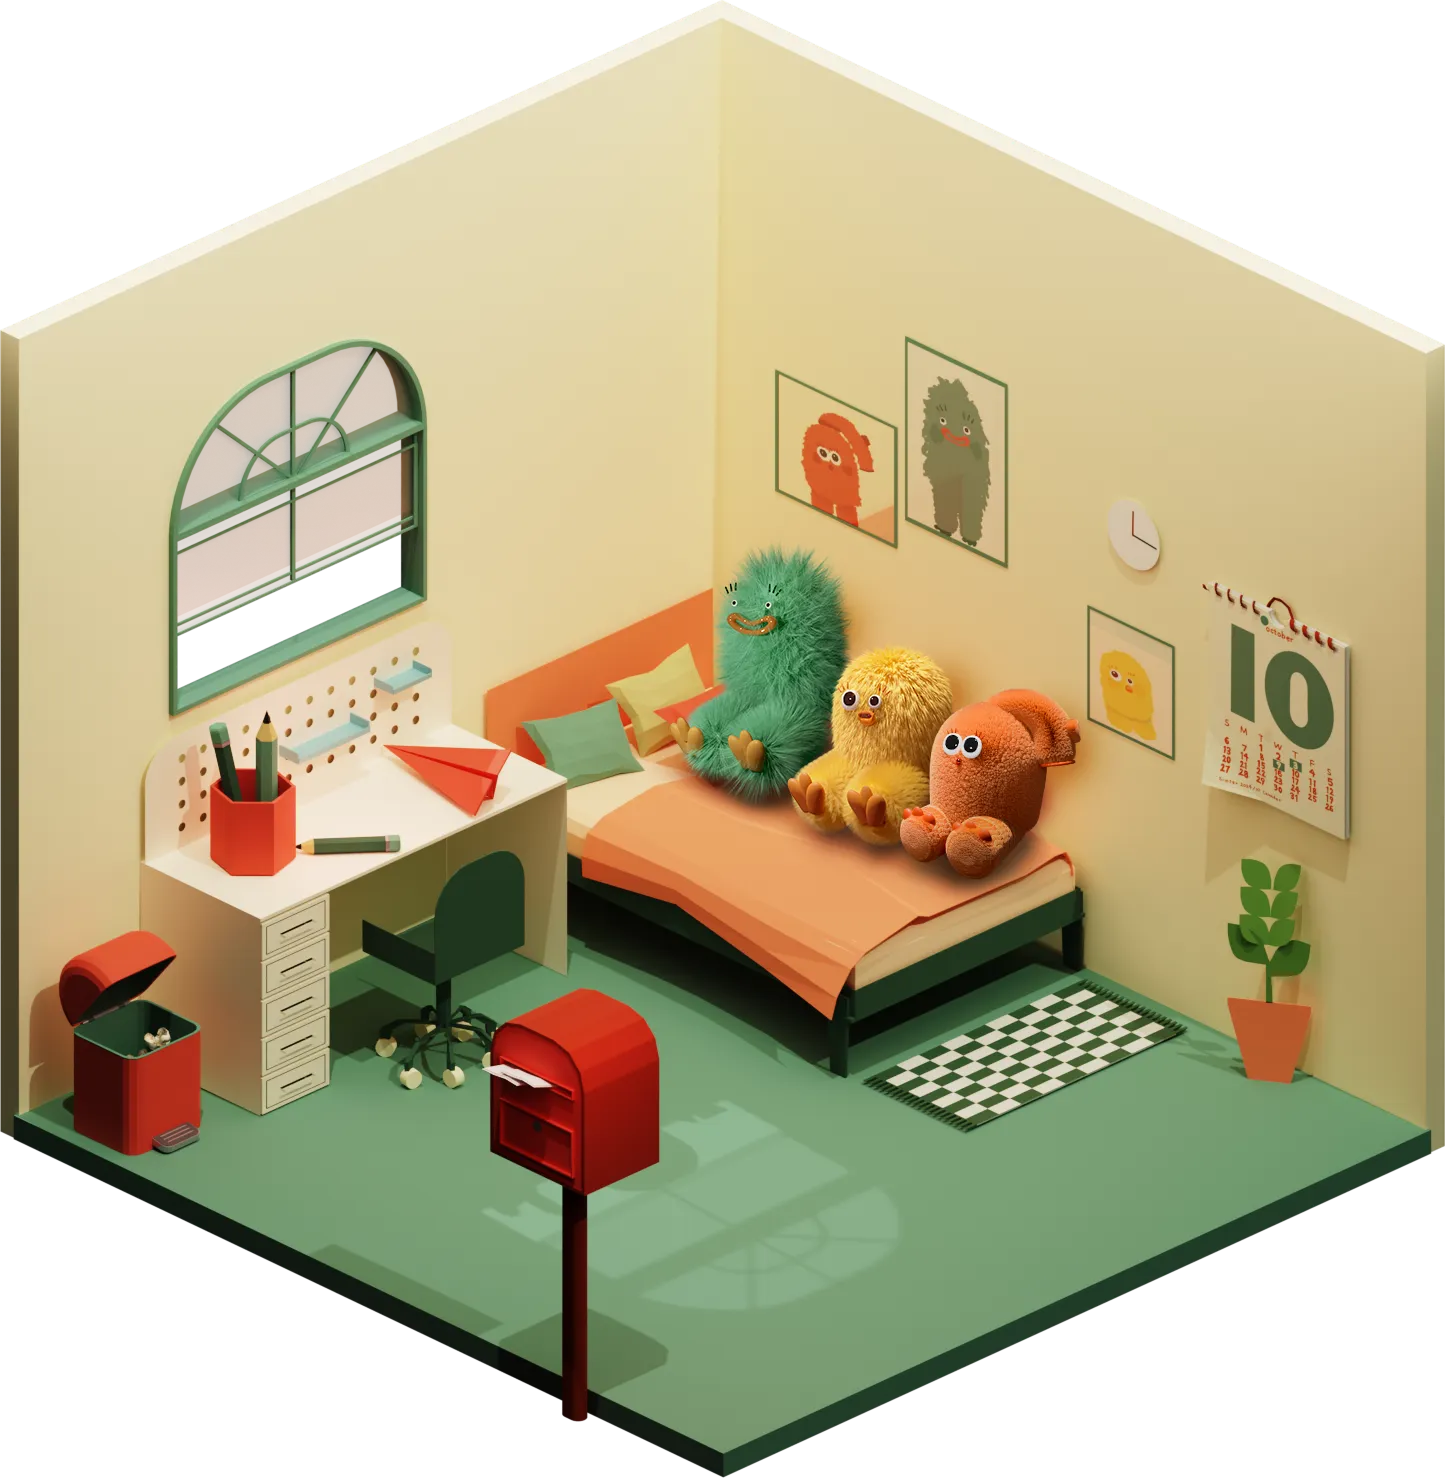
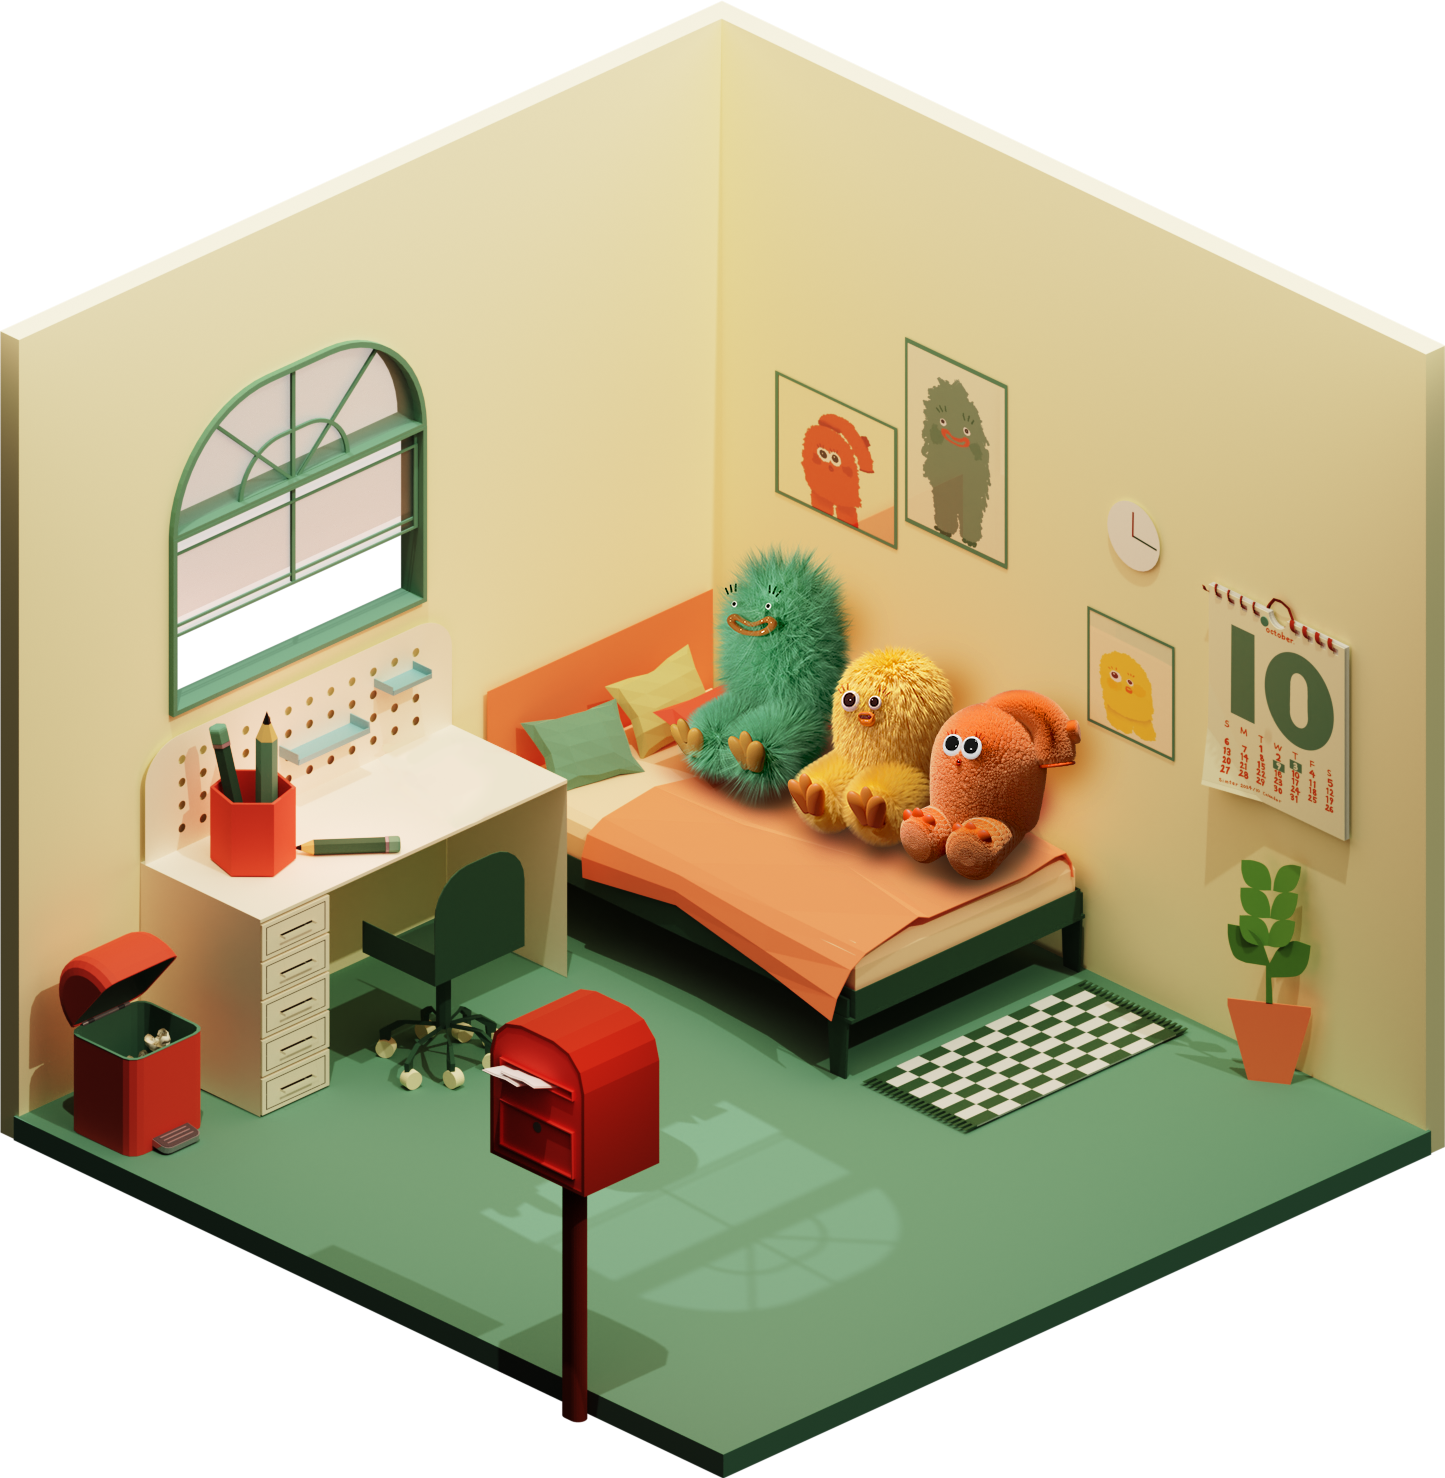
feat: 종이비행기가 왔을 때만 아이콘 띄우기 구현

diff --git a/src/components/Main/MainCm.jsx b/src/components/Main/MainCm.jsx
@@ -2,10 +2,10 @@ import React,{ useEffect, useState } from 'react'
 import * as S from "./Main.style"
 import { useNavigate } from 'react-router-dom';
 import  Airplane  from '../Modal/Airplane';
+import airplaneIcon from '../../assets/main/airplane.webp'
 import axios from 'axios';
 import { useDispatch } from 'react-redux';
 import { setLogin } from '../../redux/user';
-import moment from 'moment/moment';
 import MailAlert from '../Modal/MailAlert';
 
 export default function MainCm() {
@@ -14,9 +14,10 @@ export default function MainCm() {
   const navigate = useNavigate();
   const dispatch = useDispatch();
 
-  const [airplaneModal, setAirplaneModal] = useState(false);
-  const [airplane, setAirplane] = useState(true);
-  const [mailAlert, setMailAlert] = useState(false);
+  const [airplaneModal, setAirplaneModal] = useState(false); // 종이비행기 모달창 on/off
+  const [mailAlert, setMailAlert] = useState(false); // 편지함 알림 확인 여부
+  const [isExistAirplane, setIsExistAirplane] = useState(''); // 종이비행기 존재 여부
+
 
   const accessToken = localStorage.getItem('accessToken');
   const refreshToken = localStorage.getItem('refreshToken');
@@ -39,19 +40,17 @@ export default function MainCm() {
       dispatch(setLogin({nickname: data.nickname}));
       localStorage.setItem('nickname', data.nickname);
 
-      let isMailAlert = data.mailAlert;
-
-      if (isMailAlert) 
-        setMailAlert(true);
-      else 
-        setMailAlert(false);
-
       console.log(data);
-      // data.airplane ? setAirplane(true) : setAirplane(false);
+
+      let isMailAlert = data.mailAlert;
+      isMailAlert ? setMailAlert(true) : setMailAlert(false);
+
+      let airplane = data.airplane;
+      airplane ? setIsExistAirplane(true) : setIsExistAirplane(false);
 
     } catch(err) {
       console.log(err);
-    }
+    } 
   }
 
   /* 메인화면 새 편지 알림 끄기 API */
@@ -86,7 +85,7 @@ export default function MainCm() {
       <S.Container time={time}>
         <S.Room>
         <S.Trash onClick={() => navigate('/trash')}/>
-        <S.Airplane airplane={airplane} onClick={() => setAirplaneModal(true)}/>
+        <S.Airplane src={airplaneIcon} isExistAirplane={isExistAirplane} onClick={() => setAirplaneModal(true)}/>
         <S.Calendar onClick={() => navigate('/calendar')}/>
         <S.Chatbot onClick={() => navigate('/test')}/>
         <S.PencilHolder onClick={() => navigate('/pencilholder')}/>

diff --git a/src/components/Main/Main.style.js b/src/components/Main/Main.style.js
@@ -130,64 +130,23 @@ export const Trash = styled.div`
 
     }
 `
-export const Airplane = styled.div`
+export const Airplane = styled.img`
     position: absolute;
-
-    visibility: ${(props) => (props.airplane ? 'visible' : 'hidden')};
+    visibility: ${(props) => (props.isExistAirplane ? 'visible' : 'hidden')};
 
     width: 80px;
-    height: 40px;
     left: 26%;
-    bottom: 46%;
+    bottom: 44%;
 
     @media (max-width: 1470px) {
-        width: 45px;
-        height: 30px;
-        left: 27%;
-        bottom: 44.5%;
+        width: 50px;
     }
-    @media (max-width: 1200px) {
-    
-    } 
 
     @media (max-width: 630px) {
         width: 30px;
-        height: 16px;
-        bottom: 45%;
     }
     cursor: pointer;
     z-index: 100;
-
-    &:hover {      
-        width: 246px;
-        height: 172px;
-        left: 18%;
-        bottom: 42%;
-        
-        background-image: url(${airplane});
-        background-size: 100%;
-        background-position: center;
-        background-repeat: no-repeat;
-        
-        z-index: 40;
-
-        @media (max-width: 1470px) {
-            width: 156px;
-            height: 72px;
-            left: 18%;
-            bottom: 44%;
-        }
-        @media (max-width: 1200px) {
-
-        } 
-
-        @media (max-width: 630px) {
-            width: 100px;
-            height: 50px;
-            left: 17.5%;
-            bottom: 43.5%;
-        }
-    }
 `
 export const Calendar = styled.div`
     position: absolute;

diff --git a/src/components/Modal/Airplane.jsx b/src/components/Modal/Airplane.jsx
@@ -7,7 +7,7 @@ import * as A from './Airplane.style';
 import x from '../../assets/x.webp';
 import download from '../../assets/letterImg/download.webp';
 
-function Airplane({setAirplaneModal}) {
+function Airplane({setAirplaneModal, setIsExistAirplane}) {
     const serverURL = process.env.REACT_APP_SERVER_URL;
     const navigate = useNavigate();
     const location = useLocation(); 
@@ -49,6 +49,7 @@ function Airplane({setAirplaneModal}) {
                     setSender(writerName);
                     setContent(content);
                     setDate(createdAt);
+                    setIsExistAirplane(false);
                 } else {
                     console.error('Failed to fetch letter data');
                 }
